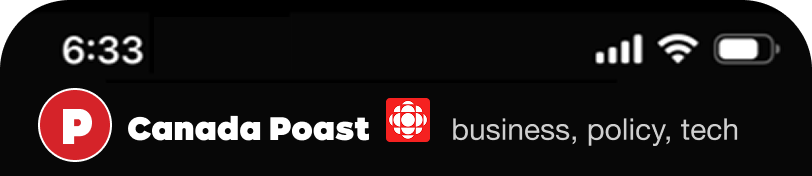
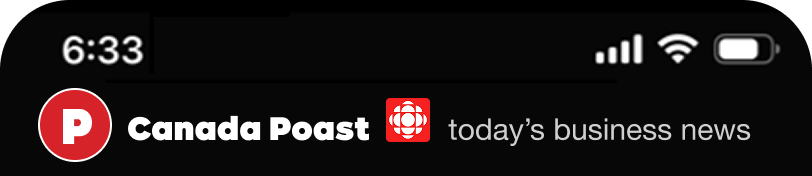
11

Changed region(s): [[0.5542, 0.6818, 0.9236, 0.8239]]

diff --git a/app/root.tsx b/app/root.tsx
@@ -29,8 +29,8 @@ export const links: LinksFunction = () => {
 
 export const meta: MetaFunction = () => ({
   charset: "utf-8",
-  title: "Canada Poast — Business, Policy, Tech",
-  description: "Subscribe to Canada Poast. Free newsletter. Get Canadian business, policy, and tech news, plus one trending podcast, and exclusive subscriber-only insights",
+  title: "Canada Poast — Today's Business News",
+  description: "Subscribe to Canada Poast. Free newsletter. Get today's business news, plus one trending podcast, and exclusive subscriber-only insights",
   viewport: "width=device-width,initial-scale=1"
 });
 

diff --git a/app/routes/index.tsx b/app/routes/index.tsx
@@ -63,7 +63,7 @@ export default function Index() {
           <div className="modal-content" onClick={(e) => e.stopPropagation()}>
             <img className="logo" src={tp} alt="Canada Poast Logo" />
             <p>Subscribe to Canada Poast's free newsletter</p>
-            <p>Get Canadian business, policy, and tech news, plus one trending podcast, and exclusive subscriber-only insights</p>
+            <p>Get today's business news, plus one trending podcast, and exclusive subscriber-only insights</p>
             <form method="post" action="https://app.thepoast.com/subscription/form">
               <div className="input-wrapper">
                 <input className="email" type="email" name="email" required placeholder="Email Address *" />